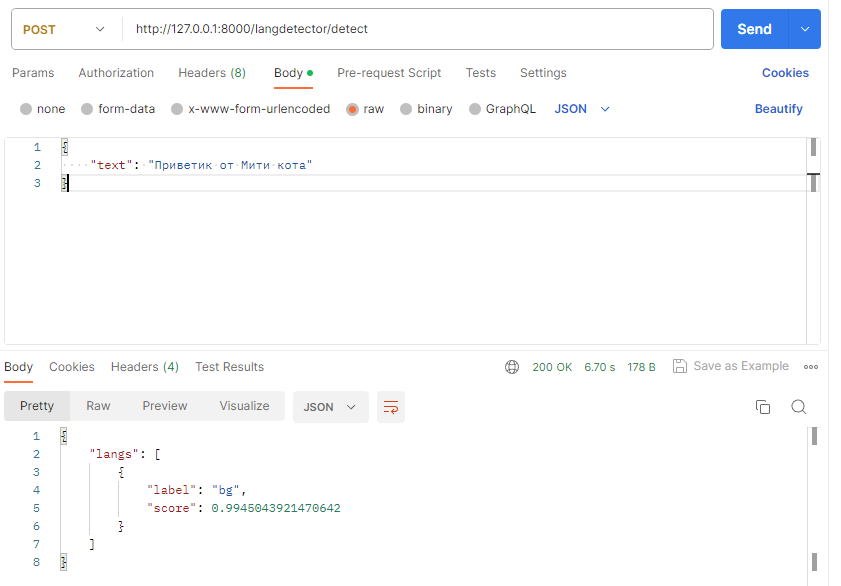
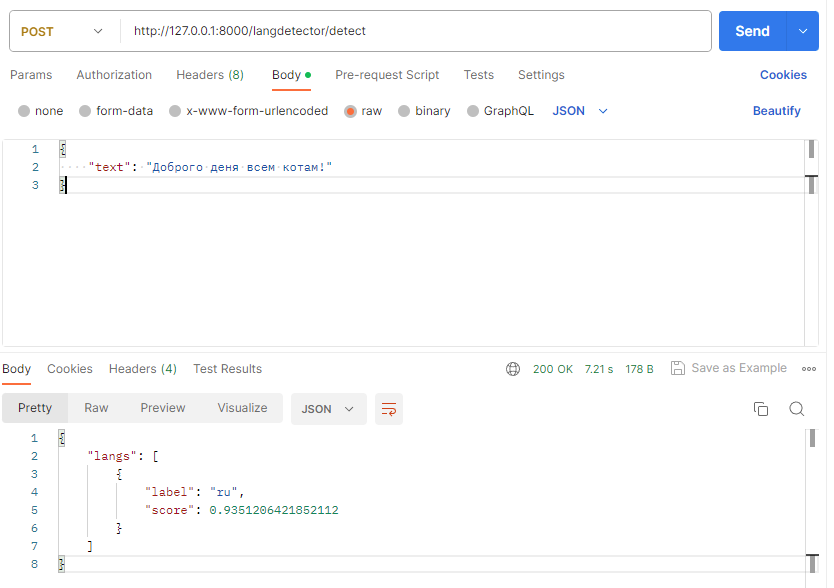
Корректировка информации об API в README.md

diff --git a/README.md b/README.md
@@ -68,7 +68,7 @@ streamlit run run.py
 Передаваемые параметры:
 ```
 {
-    "text": "Приветик от Мити кота"
+    "text": "Доброго деня всем котам!"
 }
 ```
 
@@ -77,8 +77,8 @@ streamlit run run.py
 {
     "langs": [
         {
-            "label": "bg",
-            "score": 0.9945043921470642
+            "label": "ru",
+            "score": 0.9351206421852112
         }
     ]
 }
@@ -92,13 +92,13 @@ streamlit run run.py
 Передаваемые параметры:
 ```
 {
-    "text": "Приветик от Мити кота"
+    "text": "Доброго деня всем котам!"
 }
 ```
 
 Результат выполнения:
 ```
 {
-    "text": "Hello from Michi Cat."
+    "text": "Good day to all cats!"
 }
 ```
